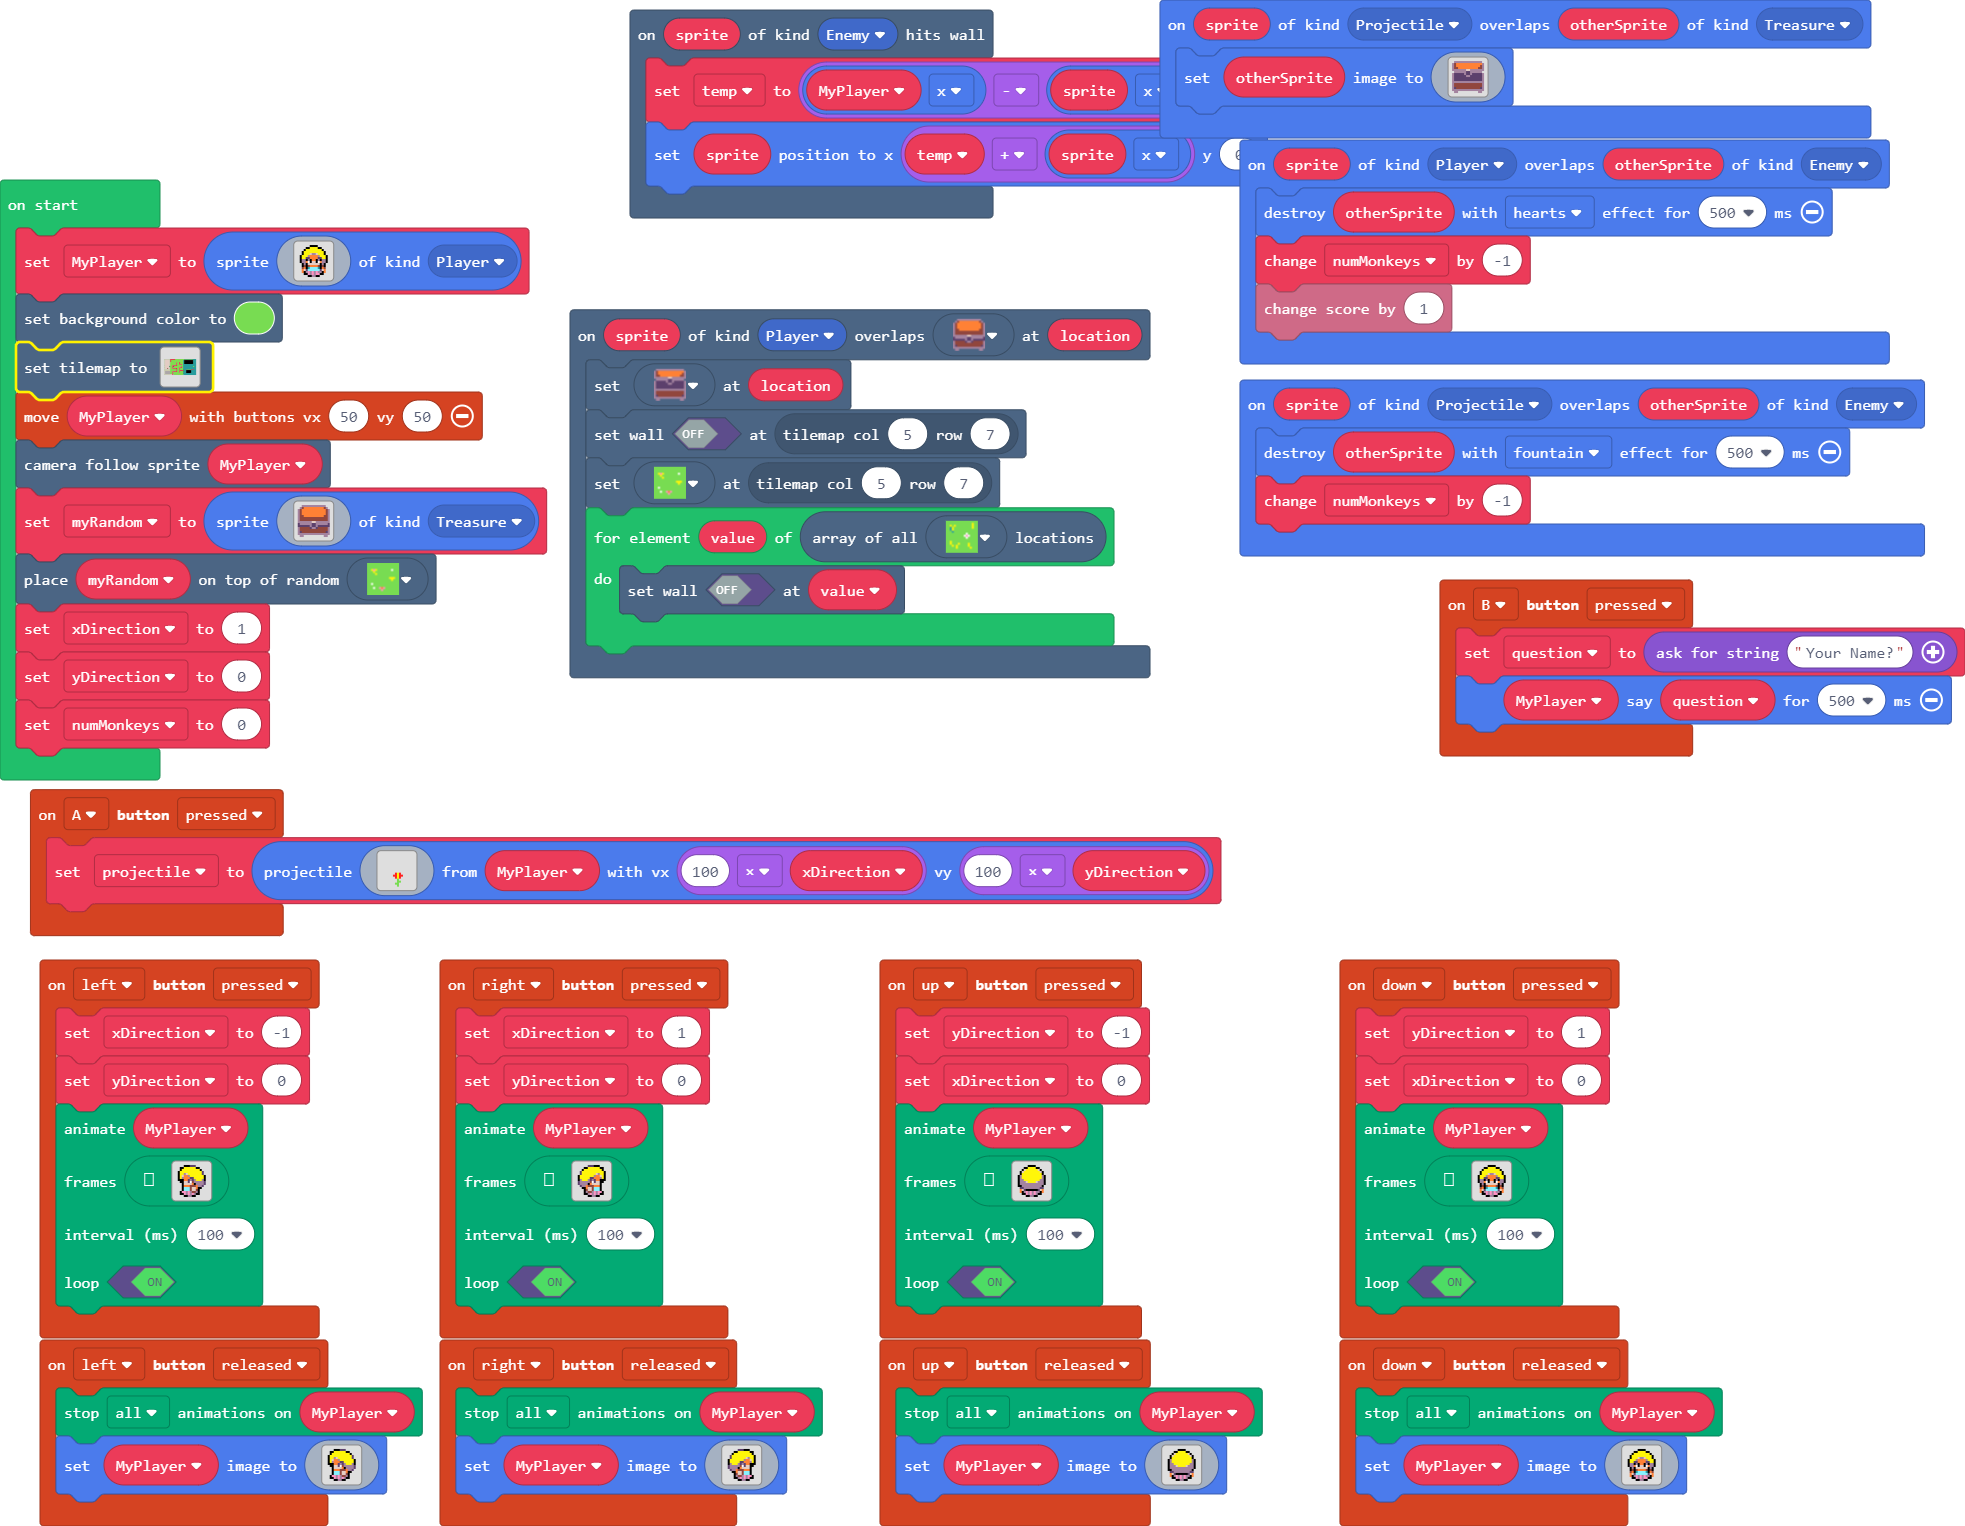
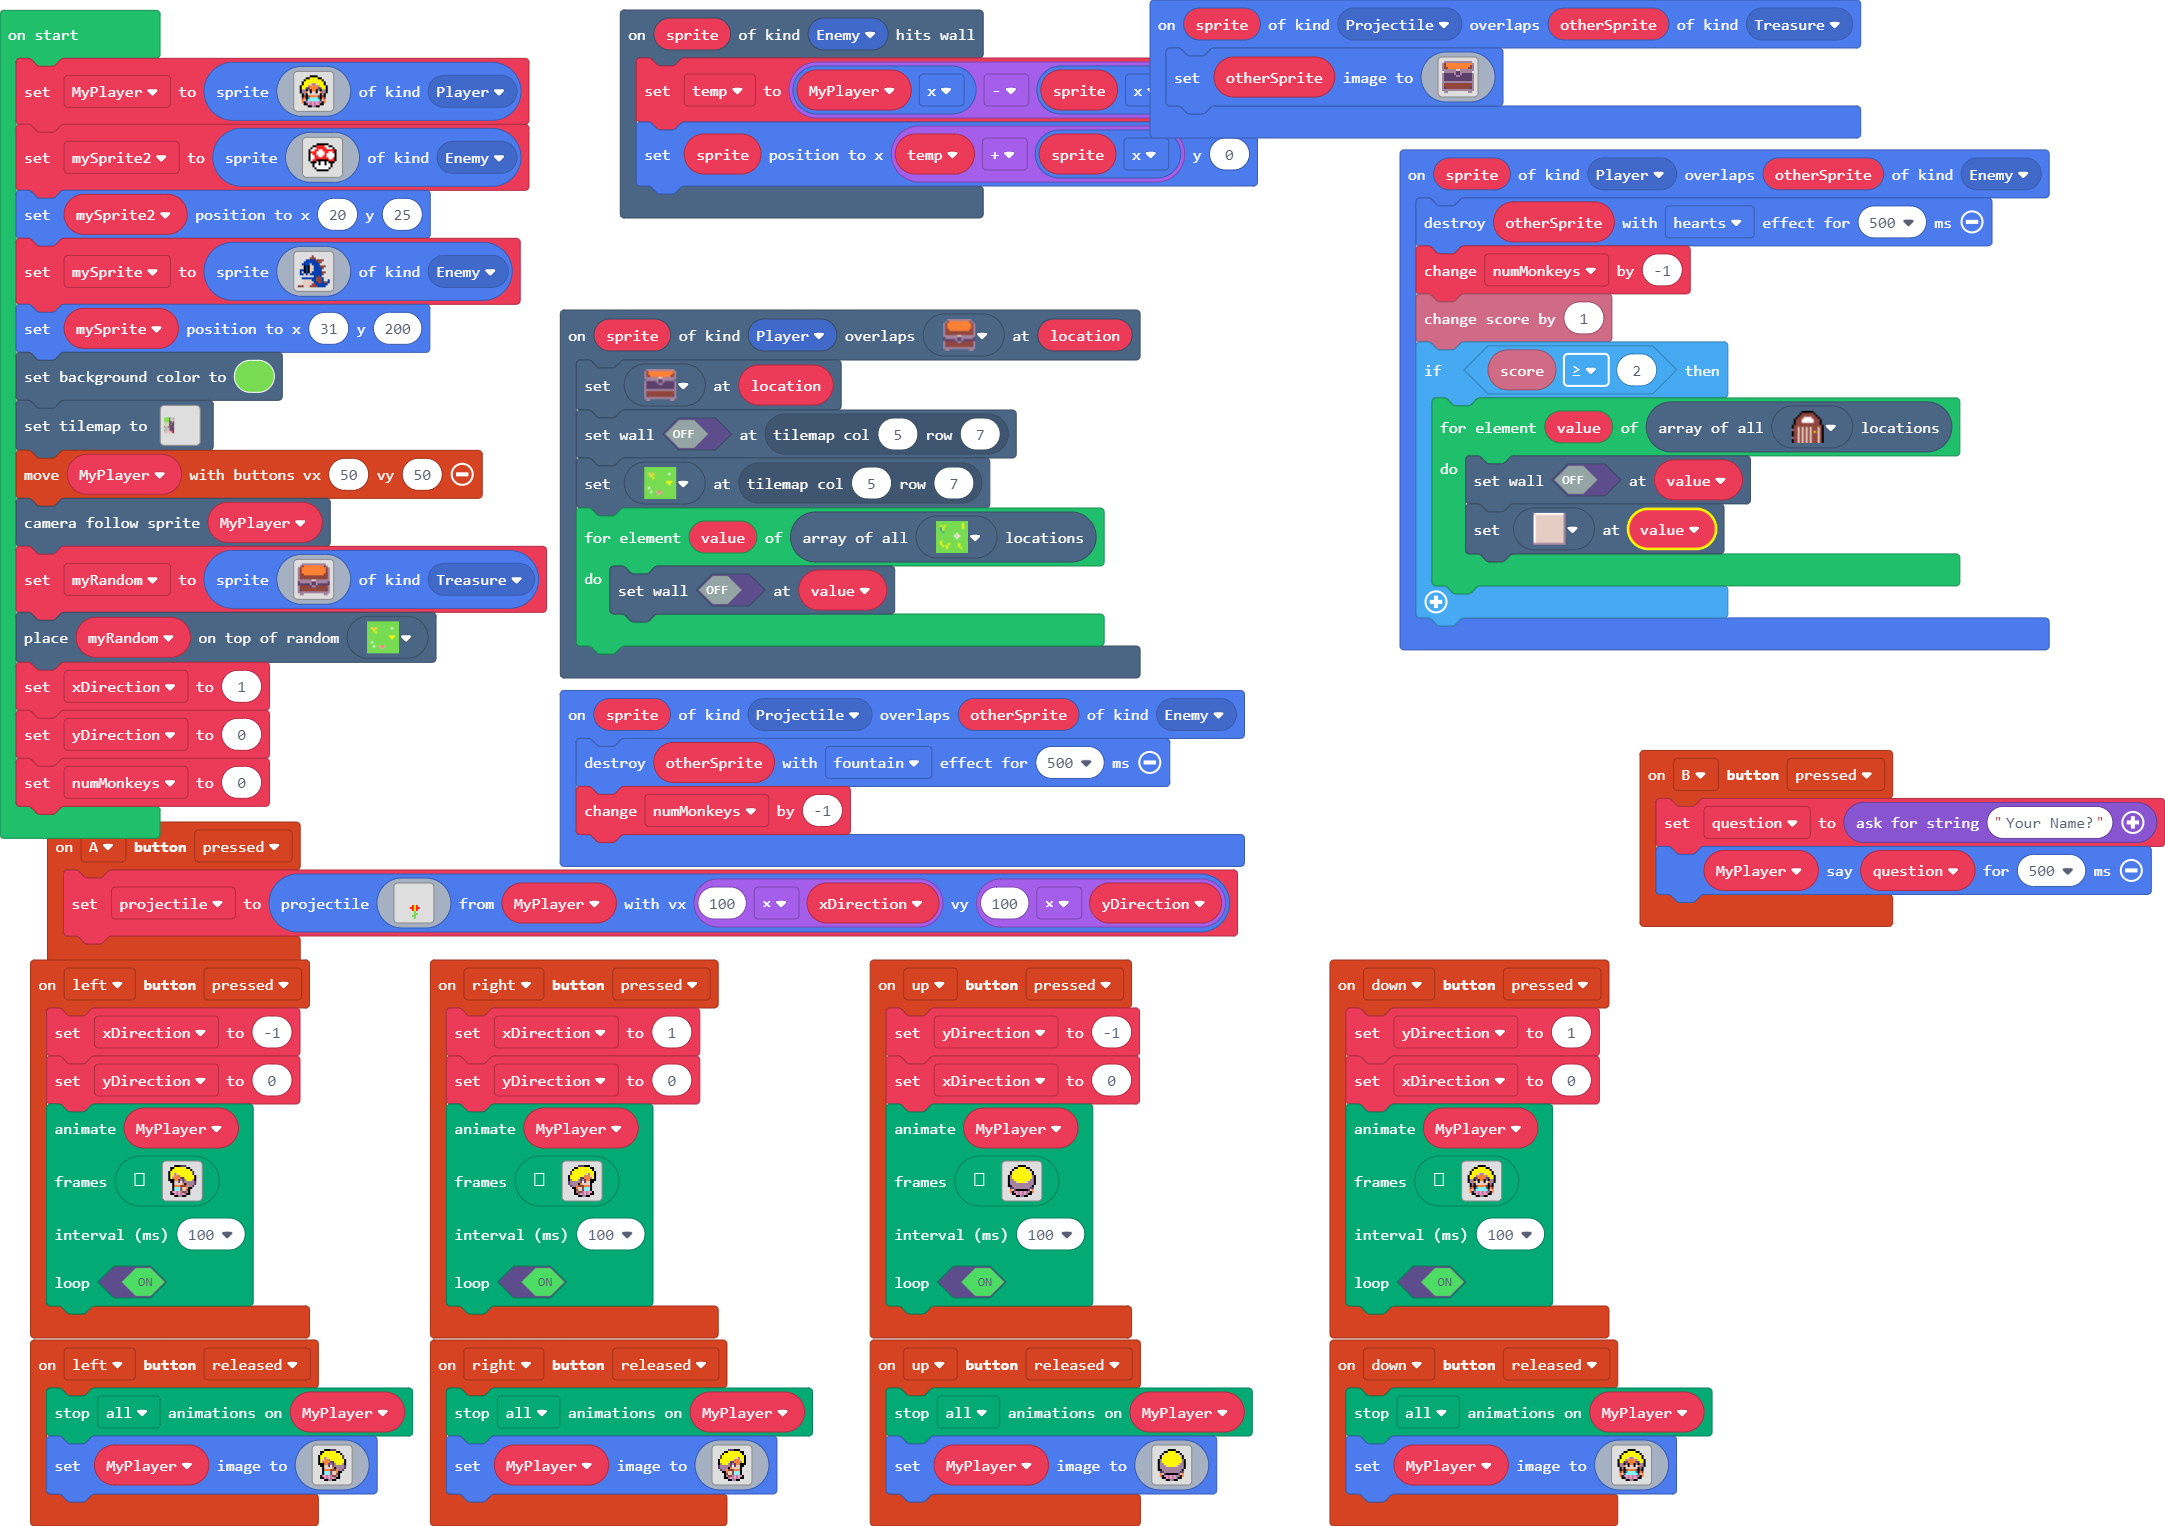
More Changes

diff --git a/main.ts b/main.ts
@@ -321,9 +321,9 @@ b b b b b b b b b b b b b b b b
 2 2 2 b 2 2 2 2 2 2 2 b 2 2 2 2 
 2 2 2 b 2 2 2 2 2 2 2 b 2 2 2 2 
 c c c c b b b b b b b b b b b b 
-d d d c . . . . . . . . . . . . 
-d d d c . . . . . . . . . . . . 
-d d d c . . . . . . . . . . . . 
+d d d c 2 2 2 b 2 2 2 2 2 2 2 2 
+d d d c 2 2 2 b 2 2 2 2 2 2 2 2 
+d d d c 2 2 2 b 2 2 2 2 2 2 2 2 
 `
     //% blockIdentity=images._tile
     export const tile18 = img`
@@ -343,6 +343,63 @@ d d d c . . . . . . . . . . . .
 7 7 7 7 7 7 7 3 7 7 7 7 7 7 7 7 
 7 7 7 7 7 7 7 7 7 7 7 7 7 7 7 7 
 7 7 7 7 7 7 7 7 7 7 7 7 7 7 7 7 
+`
+    //% blockIdentity=images._tile
+    export const tile19 = img`
+d 1 1 1 1 1 1 1 1 1 1 1 1 1 1 b 
+1 d d d 6 7 7 c c c 7 7 6 d d b 
+1 d d 6 7 c 5 c c c 5 c 7 6 d b 
+1 d 6 7 c 5 5 5 5 5 5 5 c 7 6 b 
+1 d d 6 7 5 6 7 7 6 6 5 7 6 d b 
+1 d d 6 7 5 6 6 7 6 5 5 7 6 d b 
+1 d d 6 7 5 5 6 7 6 5 7 7 6 d b 
+1 d d d d 7 5 6 7 6 5 7 d d d b 
+1 d d d d d d d d d d d d d d b 
+1 d d d d d d d d d d d d d d b 
+1 d d d d d d d d d d d d d d b 
+1 d d d d d d d d d d d d d d b 
+1 d d d d d d d d d d d d d d b 
+1 d d d d d d d d d d d d d d b 
+1 d d d d d d d d d d d d d d b 
+b b b b b b b b b b b b b b b b 
+`
+    //% blockIdentity=images._tile
+    export const tile20 = img`
+. . . . . . . . . . . . . . . . 
+. . . . . . . . . . . . . . . . 
+. . . . . f f f f f f . . . . . 
+. . . f f 2 2 2 2 1 1 f f . . . 
+. . f 1 1 2 2 2 2 2 1 1 1 f . . 
+. f 1 1 2 2 1 1 2 2 2 2 2 2 f . 
+. f 2 2 2 1 1 1 1 2 2 1 1 2 f . 
+. f 1 2 2 1 1 1 1 2 1 1 1 1 f . 
+. f 1 1 2 2 1 1 2 2 1 1 1 1 f . 
+. f 1 1 2 2 2 2 2 2 2 1 1 2 f . 
+. f 1 2 2 f f f f f f 2 2 2 f . 
+. . f f f 1 f 1 1 f 1 f f f . . 
+. . . f 1 1 f 1 1 f 1 1 f . . . 
+. . . f 1 1 1 1 1 1 1 1 f . . . 
+. . . . f 1 1 1 1 1 1 f . . . . 
+. . . . . f f f f f f . . . . . 
+`
+    //% blockIdentity=images._tile
+    export const tile21 = img`
+d 1 1 1 1 1 1 1 1 1 1 1 1 1 1 1 
+1 d d d d d d d d d d d d d d b 
+1 d d d d d d d d d d d d d d b 
+1 d d d d d d d d d d d d d d b 
+1 d d d d d d d d d d d d d d b 
+1 d d d d d d d d d d d d d d b 
+1 d d d d d d d d d d d d d d b 
+1 d d d d d d d d d d d d d d b 
+1 d d d d d d d d d d d d d d b 
+1 d d d d d d d d d d d d d d b 
+1 d d d d d d d d d d d d d d b 
+1 d d d d d d d d d d d d d d b 
+1 1 1 1 1 1 1 1 1 1 1 1 1 1 1 b 
+1 e d e d 1 d e d e 1 e d e d b 
+1 d e d e 1 e d e d 1 d e d e b 
+b b b b b b b b b b b b b b b b 
 `
 }
 controller.up.onEvent(ControllerButtonEvent.Released, function () {
@@ -549,6 +606,12 @@ sprites.onOverlap(SpriteKind.Player, SpriteKind.Enemy, function (sprite, otherSp
     otherSprite.destroy(effects.hearts, 500)
     numMonkeys += -1
     info.changeScoreBy(1)
+    if (info.score() >= 2) {
+        for (let value of tiles.getTilesByType(myTiles.tile14)) {
+            tiles.setWallAt(value, false)
+            tiles.setTileAt(value, sprites.dungeon.floorLight2)
+        }
+    }
 })
 controller.right.onEvent(ControllerButtonEvent.Pressed, function () {
     xDirection = 1
@@ -728,28 +791,66 @@ f b b 4 1 f d d f 1 4 b b f
 . . f f 3 b 3 b 3 3 f f . . 
 . . . . f f b b f f . . . . 
 `, SpriteKind.Player)
+let mySprite2 = sprites.create(img`
+. . . . . . . . . . . . . . 
+. . . . f f f f f f . . . . 
+. . f f 2 2 2 2 1 1 f f . . 
+. f 1 1 2 2 2 2 2 1 1 1 f . 
+f 1 1 2 2 1 1 2 2 2 2 2 2 f 
+f 2 2 2 1 1 1 1 2 2 1 1 2 f 
+f 1 2 2 1 1 1 1 2 1 1 1 1 f 
+f 1 1 2 2 1 1 2 2 1 1 1 1 f 
+f 1 1 2 2 2 2 2 2 2 1 1 2 f 
+f 1 2 2 f f f f f f 2 2 2 f 
+. f f f 1 f 1 1 f 1 f f f . 
+. . f 1 1 f 1 1 f 1 1 f . . 
+. . f 1 1 1 1 1 1 1 1 f . . 
+. . . f 1 1 1 1 1 1 f . . . 
+. . . . f f f f f f . . . . 
+. . . . . . . . . . . . . . 
+`, SpriteKind.Enemy)
+mySprite2.setPosition(20, 25)
+let mySprite = sprites.create(img`
+. . . . . . . e . . . . . . . . 
+. . . . . . e e e . . . . . . . 
+. . . . 8 8 8 8 8 e e e e . . . 
+. . . 8 8 8 8 8 8 8 e e . . . . 
+. . 8 8 8 8 d 8 8 8 8 . . . . . 
+. . d f 8 f d d 8 8 8 e e e . . 
+. . d f 8 f d d 8 8 8 8 e . . . 
+. 8 8 f 8 f d d 8 8 8 8 . . . . 
+. 8 d f 8 f d 8 8 8 8 8 e e . . 
+. 8 8 d 8 d 8 8 8 8 8 8 e . . . 
+. . . . d . . . 8 8 e 8 . . . . 
+. . 8 8 8 8 8 8 8 e e e 8 . . . 
+. . . d d d d 8 8 e e e 8 . . 8 
+. . d d d d d d 8 8 e e 8 e e 8 
+. . d d d d d e e 8 8 8 8 8 8 . 
+e e e d d d e e e e 8 8 8 8 . . 
+`, SpriteKind.Enemy)
+mySprite.setPosition(31, 200)
 scene.setBackgroundColor(7)
 tiles.setTilemap(tiles.createTilemap(
[2 lines of base64/hex data omitted]
             img`
-. . . . . . 2 . . . . . . . . . . . . . . . . . . . . . . . . . 
-. . . . . . 2 . . . . . . . . . . . . . . . . . . . . . . . . . 
-. . . . . . 2 . . . . . . . . . . . . . . . . . . . . . . . . . 
-. . . . . . 2 . . . . . . . . . . . . . . . . . . . . . . . . . 
-. . . . . . 2 . . . . . . . . . . . . . . . . . . . . . . . . . 
-. . . . . . 2 . . . . . . . . . . . . . . . . . . . . . . . . . 
-. . . . . . 2 . . . . . . . . . . . . . . . . . . . . . . . . . 
-2 . . . . 2 . . . . . . . . . . . . . . . . . . . . . . . . . . 
-. . . . . . 2 . . . . . . . . . . . . . . . . . . . . . . . . . 
-. . . . . . 2 . . . . . . . . . . . . . . . . . . . . . . . . . 
-. . . . . . 2 . . . . . . . . . . . . . . . . . . . . . . . . . 
-2 2 2 2 2 2 . . . . . . . . . . . . . . . . . . . . . . . . . . 
-. . . . . . . . . . . . . . . . . . . . . . . . . . . . . . . . 
-. . . . . . . . . . . . . . . . . . . . . . . . . . . . . . . . 
-. . . . . . . . . . . . . . . . . . . . . . . . . . . . . . . . 
-. . . . . . . . . . . . . . . . . . . . . . . . . . . . . . . . 
+. . . . . 2 . . . . . . . . . . . . . . . . . . . . . . . . . . 
+. . . . . 2 . . . . . . . . . . . . . . . . . . . . . . . . . . 
+. . . . . 2 . . . . . . . . . . . . . . . . . . . . . . . . . . 
+. . . . . 2 . . . . . . . . . . . . . . . . . . . . . . . . . . 
+. . . . . 2 . 2 2 . . . . . . . . . . . . . . . . . . . . . . . 
+. . . . . 2 . 2 2 . . . . . . . . . . . . . . . . . . . . . . . 
+. . . . . 2 . . . . . . . . . . . . . . . . . . . . . . . . . . 
+. . . . . 2 2 2 . . . . . . . . . . . . . . . . . . . . . . . . 
+. . . . . 2 . . . . . . . . . . . . . . . . . . . . . . . . . . 
+2 2 2 . 2 2 . . 2 2 . . . . . . . . . . . . . . . . . . . . . . 
+. . . . . 2 . . . . . . . . . . . . . . . . . . . . . . . . . . 
+. . . . . 2 . . . . . . . . . . . . . . . . . . . . . . . . . . 
+. . . . . 2 . . . . . . . . . . . . . . . . . . . . . . . . . . 
+. . . . . 2 2 2 . . . . . . . . . . . . . . . . . . . . . . . . 
+. . . . . . . 2 2 . . . . . . . . . . . . . . . . . . . . . . . 
+. . . . . . . . 2 . . . . . . . . . . . . . . . . . . . . . . . 
 `,
-            [myTiles.tile0,sprites.castle.tileGrass1,sprites.castle.tileGrass2,sprites.castle.tileGrass3,sprites.castle.tilePath1,sprites.castle.tilePath2,sprites.castle.tilePath3,sprites.castle.tilePath6,sprites.castle.tilePath7,sprites.castle.tilePath8,sprites.castle.tilePath5,sprites.castle.tilePath4,sprites.castle.tilePath9,sprites.castle.tileDarkGrass1,sprites.castle.tileDarkGrass2,sprites.castle.tileDarkGrass3,sprites.builtin.forestTiles0,sprites.builtin.forestTiles1,sprites.builtin.brick,sprites.castle.rock1,sprites.castle.saplingOak,sprites.castle.saplingPine,sprites.builtin.field0,sprites.dungeon.buttonOrange,sprites.builtin.crowd0,sprites.builtin.crowd1,sprites.builtin.crowd2,sprites.builtin.crowd3,sprites.builtin.crowd4,sprites.builtin.crowd5,sprites.builtin.crowd6,sprites.builtin.crowd7,sprites.builtin.crowd8,sprites.builtin.crowd9,sprites.dungeon.buttonOrangeDepressed,sprites.dungeon.hazardWater,sprites.dungeon.hazardLava0,sprites.dungeon.hazardSpike,sprites.vehicle.roadTurn1,sprites.vehicle.roadTurn2,sprites.vehicle.roadIntersection1,sprites.vehicle.roadIntersection2,sprites.vehicle.roadTurn3,sprites.vehicle.roadIntersection3,sprites.vehicle.roadHorizontal,sprites.vehicle.roadTurn4,sprites.vehicle.roadVertical,sprites.vehicle.roadIntersection4,sprites.dungeon.buttonPinkDepressed,sprites.builtin.field1,sprites.dungeon.hazardHole,sprites.castle.rock2,sprites.castle.shrub,sprites.dungeon.collectibleRedCrystal,sprites.dungeon.collectibleBlueCrystal,sprites.dungeon.chestOpen,sprites.dungeon.collectibleInsignia,sprites.dungeon.doorLockedEast,sprites.dungeon.floorDark3,sprites.dungeon.floorDark0,sprites.dungeon.floorDark5,sprites.dungeon.floorDark1,sprites.dungeon.greenOuterNorthWest,sprites.dungeon.greenOuterNorth0,sprites.dungeon.greenOuterNorth1,sprites.dungeon.greenOuterNorth2,sprites.dungeon.greenSwitchDown,sprites.dungeon.chestClosed,myTiles.tile1,myTiles.tile2,sprites.dungeon.doorClosedEast,sprites.dungeon.darkGroundSouthWest1,sprites.dungeon.doorClosedWest,sprites.dungeon.floorMixed,myTiles.tile4,myTiles.tile5,myTiles.tile6,myTiles.tile7,myTiles.tile8,myTiles.tile9,myTiles.tile10,myTiles.tile11,myTiles.tile12,sprites.builtin.forestTiles2,sprites.builtin.forestTiles3,sprites.builtin.forestTiles5,sprites.builtin.forestTiles6,sprites.builtin.forestTiles7,sprites.builtin.forestTiles9,myTiles.tile13,myTiles.tile14,myTiles.tile15,myTiles.tile16,myTiles.tile17,myTiles.tile18,sprites.builtin.forestTiles11,sprites.builtin.forestTiles15,sprites.builtin.forestTiles19,sprites.builtin.forestTiles20,sprites.builtin.forestTiles14,sprites.builtin.forestTiles13,sprites.builtin.forestTiles10,sprites.builtin.forestTiles12,sprites.builtin.forestTiles24,sprites.builtin.forestTiles25,sprites.builtin.forestTiles26,sprites.builtin.forestTiles23,sprites.builtin.forestTiles22,sprites.builtin.forestTiles4],
+            [myTiles.tile0,sprites.castle.tileGrass1,sprites.castle.tileGrass2,sprites.castle.tileGrass3,sprites.castle.tilePath1,sprites.castle.tilePath2,sprites.castle.tilePath3,sprites.castle.tilePath6,sprites.castle.tilePath7,sprites.castle.tilePath8,sprites.castle.tilePath5,sprites.castle.tilePath4,sprites.castle.tilePath9,sprites.castle.tileDarkGrass1,sprites.castle.tileDarkGrass2,sprites.castle.tileDarkGrass3,sprites.builtin.forestTiles0,sprites.builtin.forestTiles1,sprites.builtin.brick,sprites.castle.rock1,sprites.castle.saplingOak,sprites.castle.saplingPine,sprites.builtin.field0,sprites.dungeon.buttonOrange,sprites.builtin.crowd0,sprites.builtin.crowd1,sprites.builtin.crowd2,sprites.builtin.crowd3,sprites.builtin.crowd4,sprites.builtin.crowd5,sprites.builtin.crowd6,sprites.builtin.crowd7,sprites.builtin.crowd8,sprites.builtin.crowd9,sprites.dungeon.buttonOrangeDepressed,sprites.dungeon.hazardWater,sprites.dungeon.hazardLava0,sprites.dungeon.hazardSpike,sprites.vehicle.roadTurn1,sprites.vehicle.roadTurn2,sprites.vehicle.roadIntersection1,sprites.vehicle.roadIntersection2,sprites.vehicle.roadTurn3,sprites.vehicle.roadIntersection3,sprites.vehicle.roadHorizontal,sprites.vehicle.roadTurn4,sprites.vehicle.roadVertical,sprites.vehicle.roadIntersection4,sprites.dungeon.buttonPinkDepressed,sprites.builtin.field1,sprites.dungeon.hazardHole,sprites.castle.rock2,sprites.castle.shrub,sprites.dungeon.collectibleRedCrystal,sprites.dungeon.collectibleBlueCrystal,sprites.dungeon.chestOpen,sprites.dungeon.collectibleInsignia,sprites.dungeon.doorLockedEast,sprites.dungeon.floorDark3,sprites.dungeon.floorDark0,sprites.dungeon.floorDark5,sprites.dungeon.floorDark1,sprites.dungeon.greenOuterNorthWest,sprites.dungeon.greenOuterNorth0,sprites.dungeon.greenOuterNorth1,sprites.dungeon.greenOuterNorth2,sprites.dungeon.greenSwitchDown,sprites.dungeon.chestClosed,myTiles.tile1,myTiles.tile2,sprites.dungeon.doorClosedEast,sprites.dungeon.darkGroundSouthWest1,sprites.dungeon.doorClosedWest,sprites.dungeon.floorMixed,myTiles.tile4,myTiles.tile5,myTiles.tile6,myTiles.tile7,myTiles.tile8,myTiles.tile9,myTiles.tile10,myTiles.tile11,myTiles.tile12,sprites.builtin.forestTiles2,sprites.builtin.forestTiles3,sprites.builtin.forestTiles5,sprites.builtin.forestTiles6,sprites.builtin.forestTiles7,sprites.builtin.forestTiles9,myTiles.tile13,myTiles.tile14,myTiles.tile15,myTiles.tile16,myTiles.tile17,myTiles.tile18,sprites.builtin.forestTiles11,sprites.builtin.forestTiles15,sprites.builtin.forestTiles19,sprites.builtin.forestTiles20,sprites.builtin.forestTiles14,sprites.builtin.forestTiles13,sprites.builtin.forestTiles10,sprites.builtin.forestTiles12,sprites.builtin.forestTiles24,sprites.builtin.forestTiles25,sprites.builtin.forestTiles26,sprites.builtin.forestTiles23,sprites.builtin.forestTiles22,sprites.builtin.forestTiles4,sprites.dungeon.stairNorth,sprites.dungeon.floorLight0,sprites.dungeon.floorLight2,sprites.castle.rock0,sprites.dungeon.floorLight5,myTiles.tile19,myTiles.tile20,myTiles.tile21,sprites.dungeon.darkGroundSouthEast0,sprites.dungeon.darkGroundEast,sprites.dungeon.darkGroundCenter,sprites.dungeon.darkGroundNorthEast0,sprites.dungeon.darkGroundNorth,sprites.dungeon.darkGroundNorthWest1,sprites.dungeon.darkGroundSouth,sprites.dungeon.doorOpenSouth,sprites.dungeon.doorLockedWest,sprites.dungeon.darkGroundNorthEast1,sprites.dungeon.doorLockedSouth,sprites.dungeon.doorLockedNorth,sprites.dungeon.floorLight1,sprites.dungeon.floorLightMoss,sprites.dungeon.floorLight3,sprites.dungeon.floorLight4,sprites.dungeon.doorClosedSouth],
             TileScale.Sixteen
         ))
 controller.moveSprite(MyPlayer, 50, 50)
